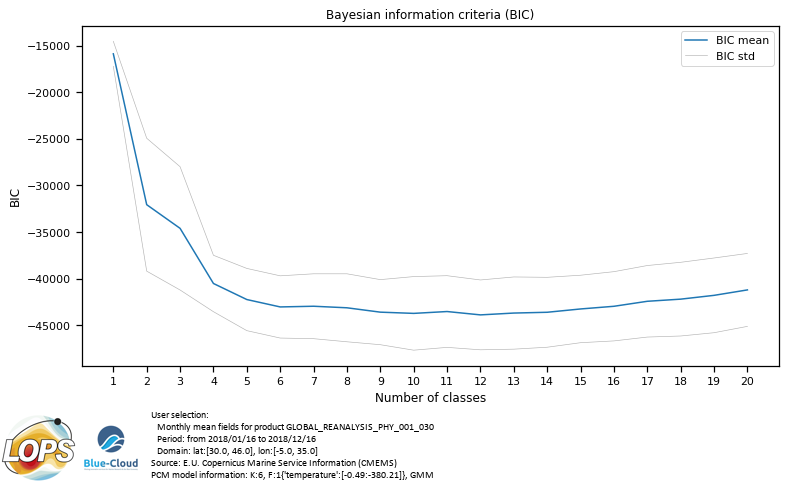
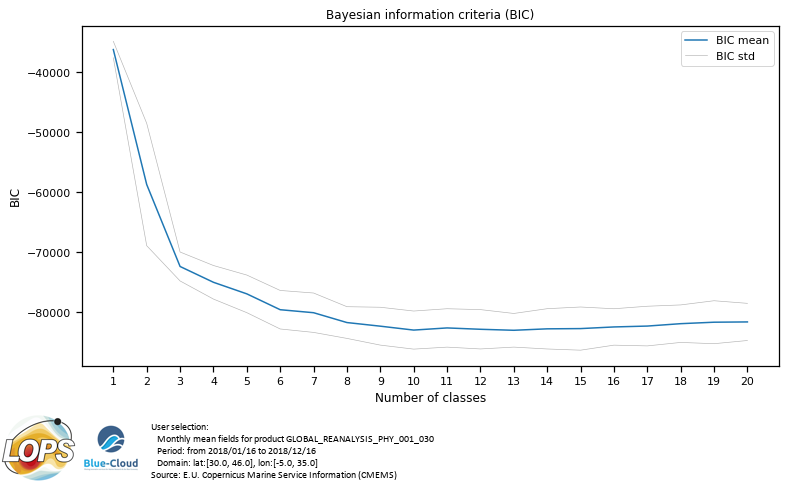
save BIC function without model information

diff --git a/Plotter.py b/Plotter.py
@@ -787,7 +787,7 @@ class Plotter:
         background.paste(image, (0, 0))
         background.save(outfname)
 
-    def add_2logo(self, mfname, outfname, logo_height=70, txt_color=(0, 0, 0, 255), data_src='CMEMS'):
+    def add_2logo(self, mfname, outfname, logo_height=70, txt_color=(0, 0, 0, 255), data_src='CMEMS', bic_fig ='no'):
         """ Add 2 logos and text to a figure
 
             Parameters
@@ -856,8 +856,13 @@ class Plotter:
         spatial_string = 'Domain: lat:%s, lon:%s' % (
             str(lat_extent), str(lon_extent))
 
-        txtA = "User selection:\n   %s\n   %s\n   %s\nSource: %s\n%s" % (self.ds.attrs.get(
-            'title'), time_string, spatial_string, self.ds.attrs.get('credit'), pcm1liner(self.m))
+        if bic_fig == 'no':
+            txtA = "User selection:\n   %s\n   %s\n   %s\nSource: %s\n%s" % (self.ds.attrs.get(
+                'title'), time_string, spatial_string, self.ds.attrs.get('credit'), pcm1liner(self.m))
+        else:
+            txtA = "User selection:\n   %s\n   %s\n   %s\nSource: %s" % (self.ds.attrs.get(
+                'title'), time_string, spatial_string, self.ds.attrs.get('credit'))
+
         fontA = ImageFont.truetype(font_path, 10)
 
         txtsA = fontA.getsize_multiline(txtA)
@@ -875,7 +880,7 @@ class Plotter:
         # Final save
         mimage.save(outfname)
 
-    def save_BlueCloud(self, out_name):  # function which saves figure and add logos
+    def save_BlueCloud(self, out_name, bic_fig='no'):  # function which saves figure and add logos
 
         # save image
         # plt.margins(0.1)
@@ -887,7 +892,7 @@ class Plotter:
 
         # add logo
         #self.add_2logo(out_name, out_name, logo_height=120, txt_color=(0, 0, 0, 255), data_src='CMEMS')
-        self.add_2logo(out_name, out_name)
+        self.add_2logo(out_name, out_name, bic_fig = bic_fig)
 
         print('Figure saved in %s' % out_name)
 

diff --git a/BIC_calculation.py b/BIC_calculation.py
@@ -152,7 +152,7 @@ def BIC_calculation(ds, corr_dist, coords_dict, time_steps, pcm_features, featur
                corr_dist: correlation distance
                coords_dict: dictionary with coordinates names
                     {'depth': 'depth', 'latitude': 'latitude', 'time': 'time', 'longitude': 'longitude'}
-               time_steps: time steps to be taken in to acount
+               time_steps: time steps to be taken in to acount (format %Y-%m)
                pcm_features: dictionary with pcm features {'temperature': z vector}
                features_in_ds: dictionary with the name of feaures in the model and in the dataste
                     {temperature: thetao} 
